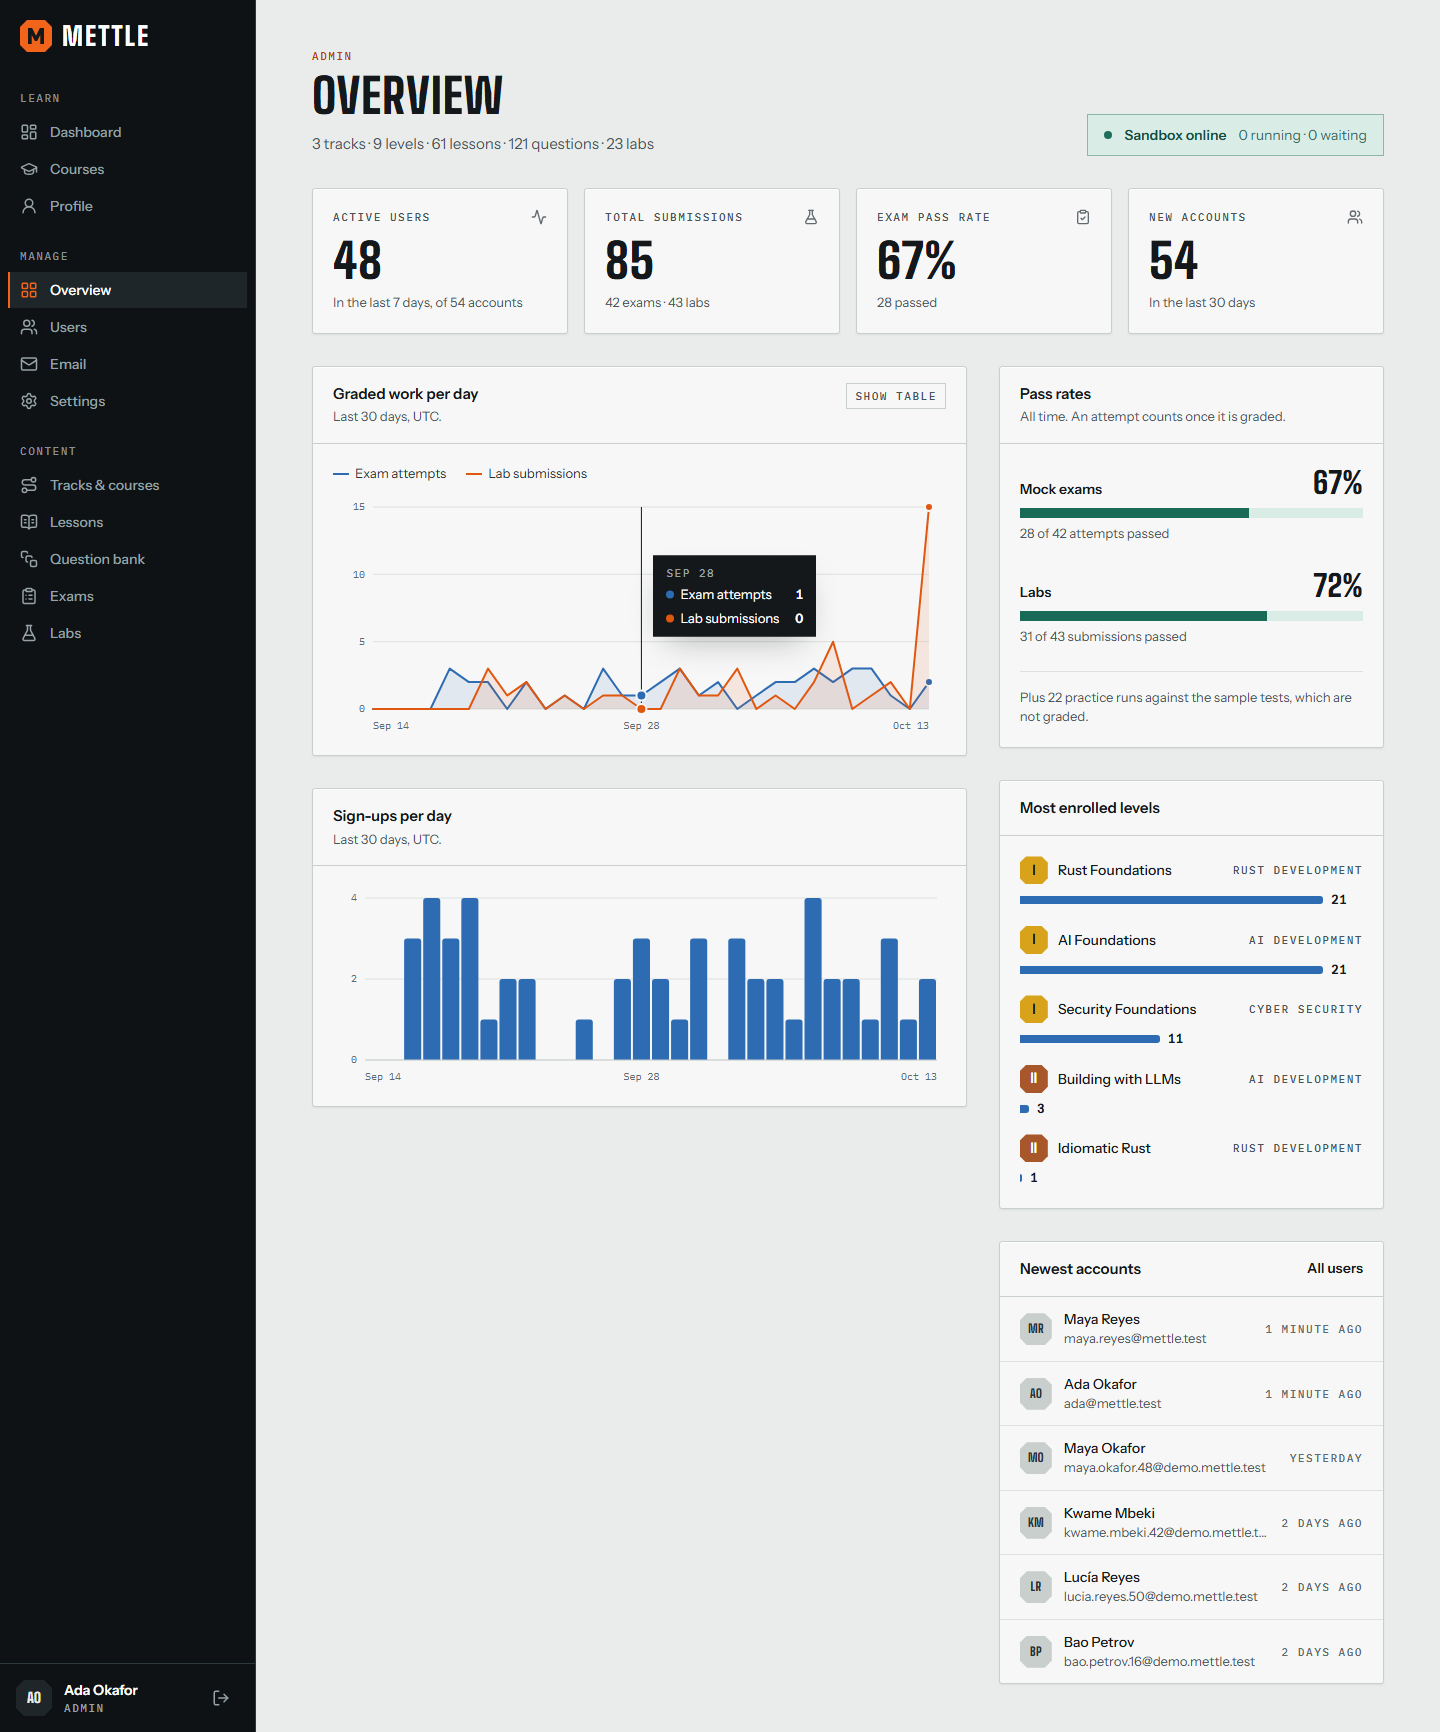
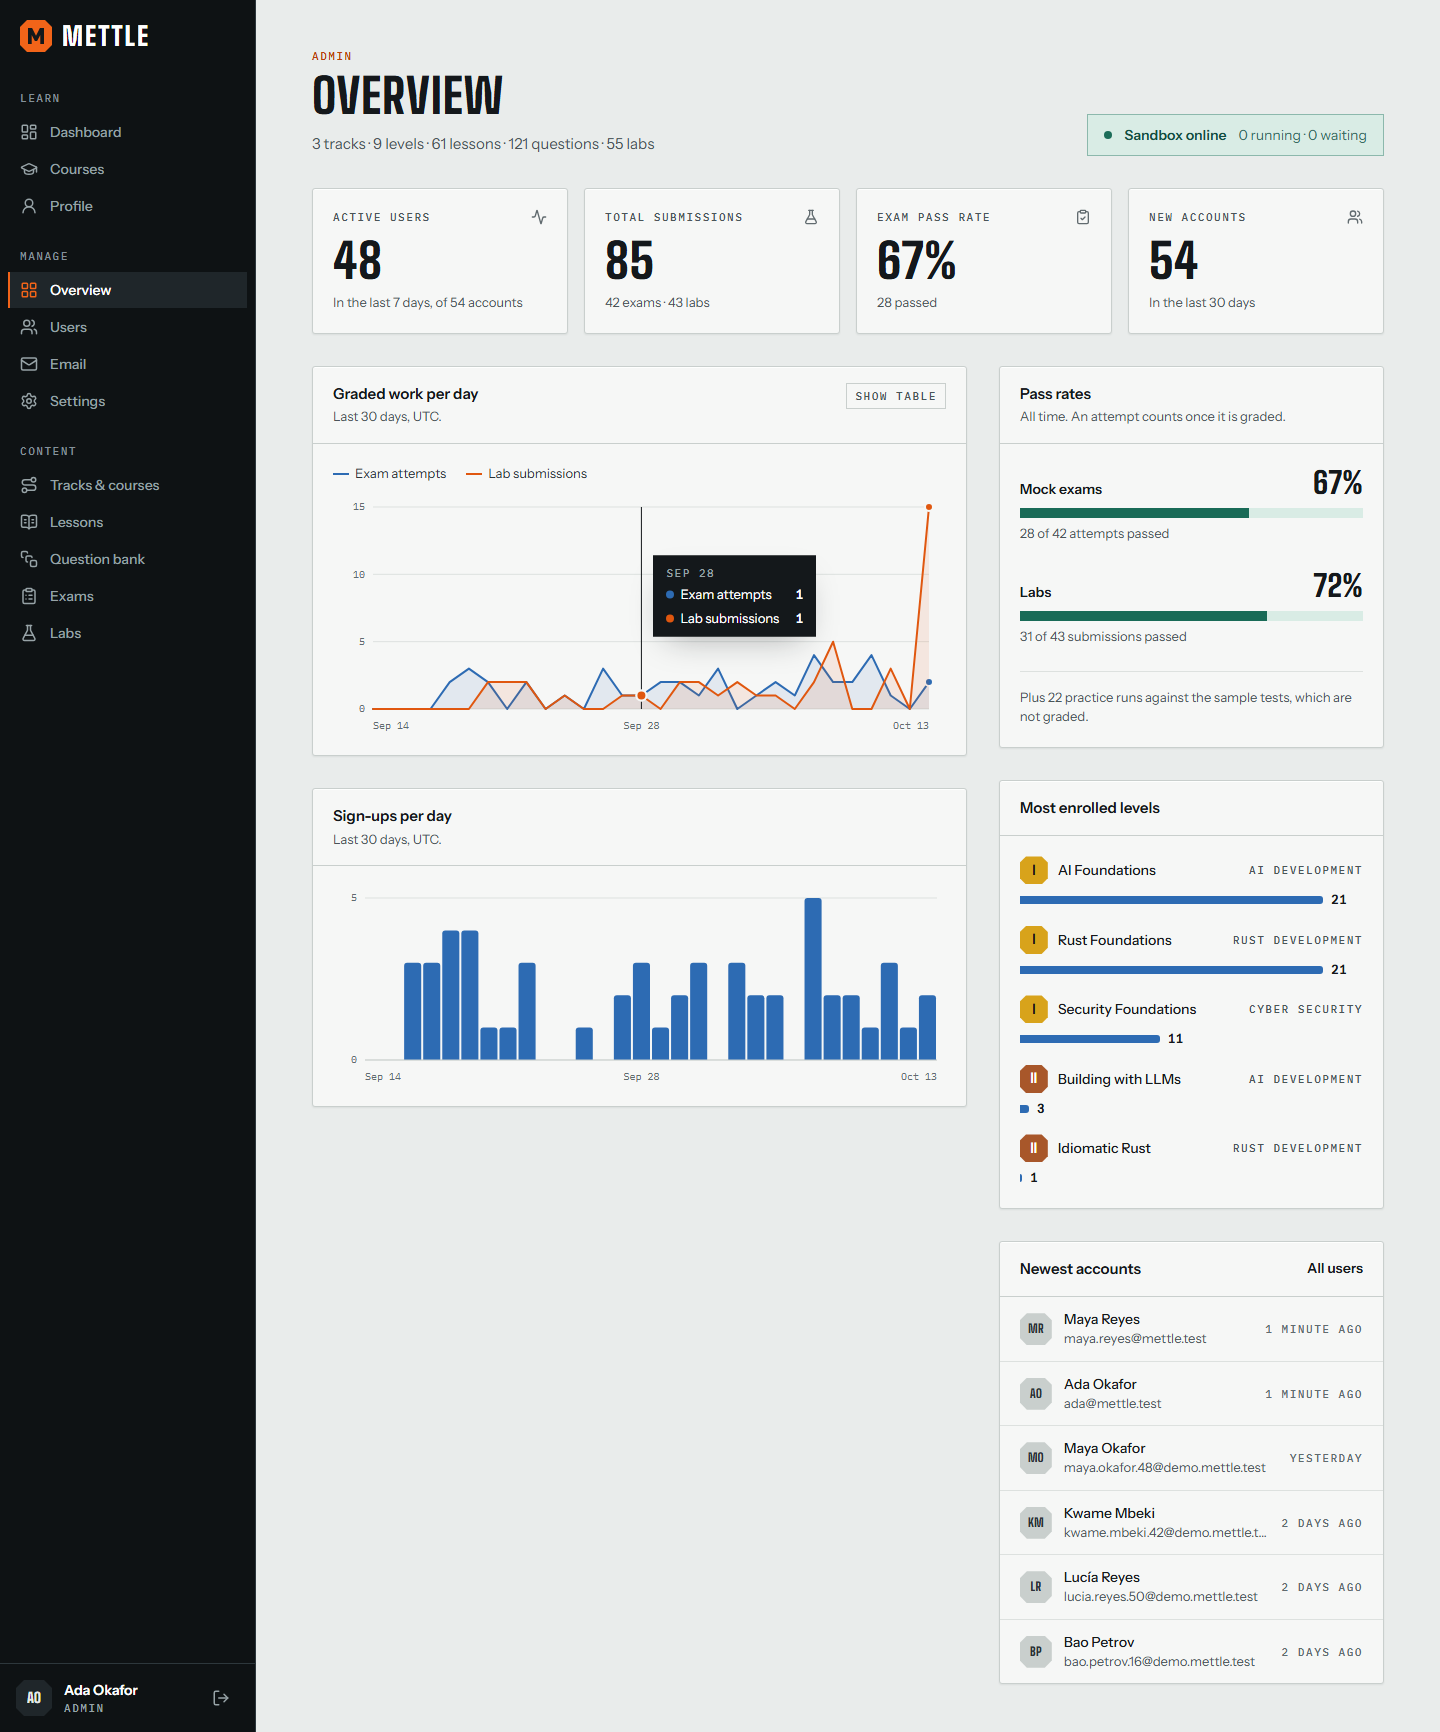
docs: say that every Rust lesson has a practice lab, and retake the screenshots

diff --git a/apps/web/src/features/guide/learner-sections.tsx b/apps/web/src/features/guide/learner-sections.tsx
@@ -80,7 +80,7 @@ export function Lessons() {
         </p>
         <p>
           Where a lesson has a <strong>practice lab</strong>, it is offered at the end: choose <strong>Try it now</strong>, or{' '}
-          <strong>Mark as read and practice</strong>. It is a ten-minute task in the editor, checked by tests like any other lab, and
+          <strong>Mark as read and practice</strong>. It is a short task in the editor, checked by tests like any other lab, and
           passing it takes you on to the next lesson. Practice labs count toward the level.
         </p>
         <p>

diff --git a/README.md b/README.md
@@ -90,7 +90,7 @@ quick.
 | **AI Development** | AI Foundations | Building with LLMs | Models Under the Hood | Production AI Systems |
 | **Cyber Security** | Security Foundations | in development | in development | in development |
 
-61 lessons, 121 exam questions with explanations and 23 labs. Every lab is verified in the
+61 lessons, 121 exam questions with explanations and 55 labs. Every lab is verified in the
 sandbox: its reference solution passes, its starter code does not. The whole curriculum is
 plain files under [`content/`](content/README.md) and is documented in
 [docs/CURRICULUM.md](docs/CURRICULUM.md).
@@ -101,8 +101,8 @@ from the official documentation (The Rust Programming Language for the 2024 edit
 standard library reference, the Rustonomicon, the Cargo Book and others); each lesson has
 worked examples that were compiled and run, common mistakes, practice with answers, and links
 to its sources. Its four question banks hold 96 questions, and every exam attempt draws ten.
-In its first level every lesson ends with a ten-minute **practice lab**, so each idea is tried
-in the editor straight after it is read.
+Every one of its 46 lessons ends with a short **practice lab**, so each idea is tried in the
+editor straight after it is read.
 AI Development and Cyber Security are still in the original short format (three lessons a
 level) and are next to be expanded.
 

diff --git a/docs/USER-GUIDE.md b/docs/USER-GUIDE.md
@@ -77,8 +77,8 @@ end.
 At the end, choose **Mark as read and continue**. The lesson stays readable afterwards.
 
 Where a lesson has a **practice lab**, it is offered at the end: choose **Try it now**, or
-**Mark as read and practice**. It is a ten-minute task in the editor, checked by tests like any
-other lab, and passing it takes you on to the next lesson. Practice labs count toward the level.
+**Mark as read and practice**. It is a short task in the editor, checked by tests like any other
+lab, and passing it takes you on to the next lesson. Practice labs count toward the level.
 
 Most lessons end with a **Practice** section. Try the exercises before you open **Show the
 answers**: the answers stay folded until you ask for them. **Further reading** links to the
